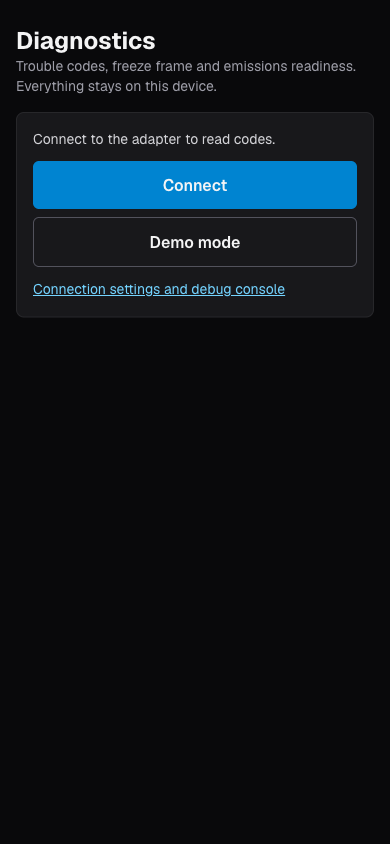
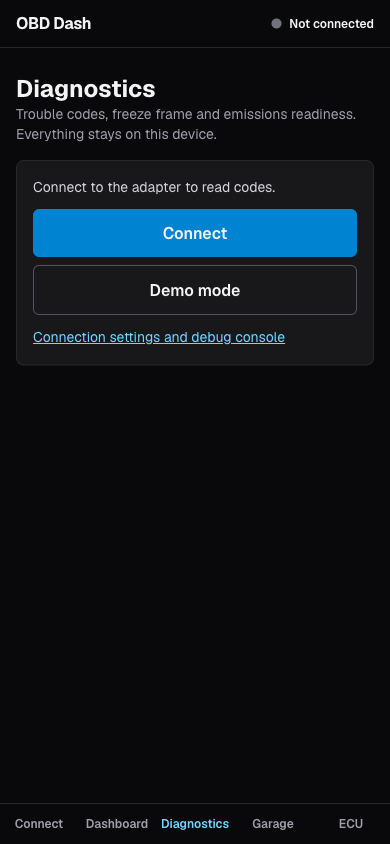
Never overwrite a scan file; screenshots inside the app shell
- Scan file names have 1 s resolution; a fast Demo read + clear could share one and
  the clear file overwrote the read. The name now moves on a second instead
  (contract format kept, takenAt inside stays exact), with a test
- Retook the Diagnostics screenshots inside the Dashboard app shell

diff --git a/lib/store/diagnostics.test.ts b/lib/store/diagnostics.test.ts
@@ -1,4 +1,4 @@
-import { afterAll, describe, expect, it } from "vitest";
+import { afterAll, describe, expect, it, vi } from "vitest";
 import { parseScanFile } from "../diagnostics/scanFile";
 import { SIM_DTCS } from "../sim/elm327";
 import { readText, useFolder } from "../storage/folder";
@@ -46,6 +46,19 @@ describe("diagnostics store + folder storage", () => {
     await d().openFile("2000-01-01T00-00-00Z_NOVIN.json");
     expect(d().viewError).toMatch(/isn't in the scans folder/);
   });
+
+  it("never overwrites: a second scan in the same second takes the next second's name", async () => {
+    const now = vi.spyOn(Date, "now").mockReturnValue(Date.UTC(2026, 9, 16, 12, 0, 0));
+    await d().read();
+    const first = d().savedAs;
+    await d().read();
+    now.mockRestore();
+    expect([first, d().savedAs]).toEqual([
+      "2026-10-16T12-00-00Z_SIMULATOR0VIN0001.json",
+      "2026-10-16T12-00-01Z_SIMULATOR0VIN0001.json",
+    ]);
+    expect(parseScanFile((await readText(`scans/${first}`))!)).toMatchObject({ takenAt: "2026-10-16T12:00:00.000Z" });
+  }, 30000);
 
   it("skips saving without a ready folder but still reads", async () => {
     await useFolder.getState().unlink();

diff --git a/lib/store/diagnostics.ts b/lib/store/diagnostics.ts
@@ -43,8 +43,11 @@ export const useDiagnostics = create<DiagnosticsState>((set, get) => {
   const save = async (file: ScanFile) => {
     set({ savedAs: "", saveError: "" });
     if (!folderReady()) return;
-    const name = scanFileName(Date.parse(file.takenAt), file.vin);
     try {
+      // Names have 1 s resolution; a fast Demo read + clear can share one. Bump the name, never overwrite.
+      let at = Date.parse(file.takenAt);
+      while ((await readText(`${SCAN_DIR}/${scanFileName(at, file.vin)}`)) !== null) at += 1000;
+      const name = scanFileName(at, file.vin);
       await writeText(`${SCAN_DIR}/${name}`, JSON.stringify(file, null, 2));
       set({ savedAs: name });
       await get().loadRecent();

diff --git a/lib/diagnostics/scanFile.ts b/lib/diagnostics/scanFile.ts
@@ -7,7 +7,7 @@ export type ScanFile =
   | { format: "obd-dash-scan"; version: 1; takenAt: string; vin: string | null; kind: "read"; scan: Scan }
   | { format: "obd-dash-scan"; version: 1; takenAt: string; vin: string | null; kind: "clear"; before: Scan; after: Scan };
 
-// shortcut: two scans of the same car in the same second share a name (the later one wins); add ms if that ever matters.
+// 1 s resolution: the store bumps the name by a second rather than overwrite an existing file.
 export function scanFileName(at: number, vin: string | null): string {
   const stamp = new Date(at).toISOString().slice(0, 19).replace(/:/g, "-");
   return `${stamp}Z_${vin?.replace(/[^A-Za-z0-9]/g, "") || "NOVIN"}.json`;

diff --git a/components/diagnostics/DiagnosticsScreen.tsx b/components/diagnostics/DiagnosticsScreen.tsx
@@ -18,7 +18,7 @@ import { Readiness } from "./Readiness";
 const CARD = "rounded-lg border border-zinc-800 bg-zinc-900 p-4";
 const when = (at: number) => new Date(at).toLocaleString();
 
-/** There is no app shell yet, so the page can connect by itself (same store as the Connect screen). */
+/** Lets a deep link (e.g. from /history) connect in place; same store as the Connect screen. */
 function ConnectPrompt() {
   const hasBt = useHasBluetooth();
   const { status, error, connect } = useConnection();

diff --git a/docs/diagnostics.md b/docs/diagnostics.md
@@ -76,7 +76,7 @@ Files download with an `<a download>` Blob link. Nothing leaves the device.
 
 Scans are plain files in a real folder the user picks. Folder storage itself (`lib/storage/folder.ts`, the `/history` page, linking and permissions) belongs to JOID-0006. Diagnostics only uses its contract: `useFolder` (status, folderName), `writeText`, `readText` and `listFiles`. There is no database.
 
-- **File name:** `scans/<YYYY-MM-DDTHH-mm-ssZ>_<VIN or NOVIN>.json`, UTC. The VIN is reduced to letters and digits. Two scans of the same car in the same second would share a name. Code: `lib/diagnostics/scanFile.ts`.
+- **File name:** `scans/<YYYY-MM-DDTHH-mm-ssZ>_<VIN or NOVIN>.json`, UTC. The VIN is reduced to letters and digits. If that name already exists (two scans of the same car in one second, e.g. a fast Demo read then clear), the name moves on a second; the file is never overwritten, and `takenAt` inside stays exact. Code: `lib/diagnostics/scanFile.ts`.
 - **File content:** it starts with `{ format: "obd-dash-scan", version: 1, takenAt, vin, kind }`.
   - `kind: "read"` adds `scan`, one full scan.
   - `kind: "clear"` adds `before` (the live scan the user cleared from) and `after` (the automatic re-read). A clear run writes only this one file.
